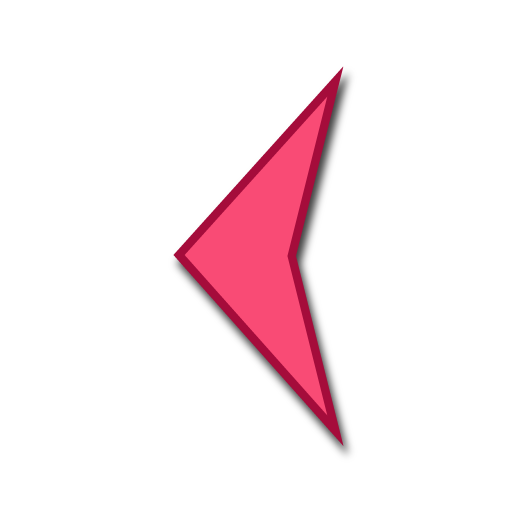
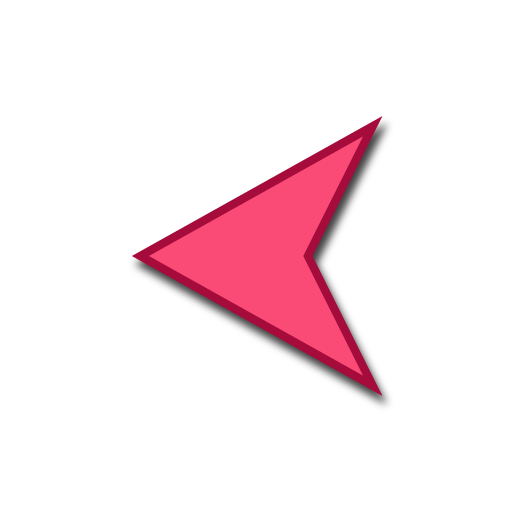
ターンインジケータ画像、アニメをさらに調整

Changed region(s): [[0.25, 0.125, 0.7812, 0.9062]]

diff --git a/src/js/game/components/three-js-canvas/scene/battle/animation/state-history/burst/shin-braver.js b/src/js/game/components/three-js-canvas/scene/battle/animation/state-history/burst/shin-braver.js
@@ -34,10 +34,11 @@ function recoverBattery(param: BurstAnimationParam<ShinBraver, RecoverBattery>):
   const playerX = param.burstPlayerTD.sprite.getObject3D().position.x;
   return all(
     zoomIn(param.tdCamera, playerX, 300),
+    param.tdObjects.turnIndicator.invisible(),
 
-    delay(800).chain(all(
+    delay(1300).chain(all(
       param.burstPlayerHUD.gauge.battery(param.burstPlayerState.armdozer.battery),
       param.burstPlayerTD.recoverBattery.popUp(param.burst.recoverBattery)
     ))
-  );
+  )
 }

diff --git a/src/js/game-object/turn-indicator/model/turn-indicator-model.js b/src/js/game-object/turn-indicator/model/turn-indicator-model.js
@@ -2,7 +2,14 @@
 
 /** ターンインジケーターモデル */
 export type TurnIndicatorModel = {
+  /**
+   * プレイヤーターンであるか否かのフラグ、trueでプライヤーターンである
+   */
   isPlayerTurn: boolean,
+
+  /** 0 - 1 で表現する透明度 */
   opacity: number,
+
+  /** 0 - 1 で表現するアニメーション進捗 */
   animation: number,
 };

diff --git a/src/js/game-object/turn-indicator/view/turn-indicator-view.js b/src/js/game-object/turn-indicator/view/turn-indicator-view.js
@@ -44,7 +44,7 @@ export class TurnIndicatorView {
       : -scale;
     this._canvasMesh.mesh.scale.y = scale;
 
-    const x = 70 - 120 * model.animation;
+    const x = 40 - 60 * model.animation;
     this._canvasMesh.mesh.position.x = model.isPlayerTurn
       ? x
       : -x;
